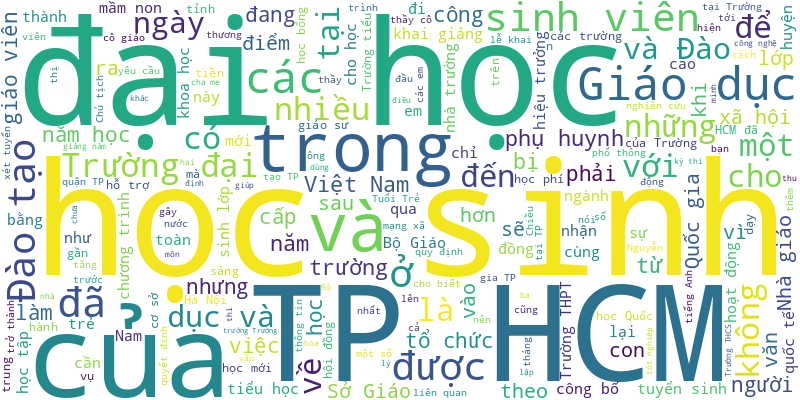
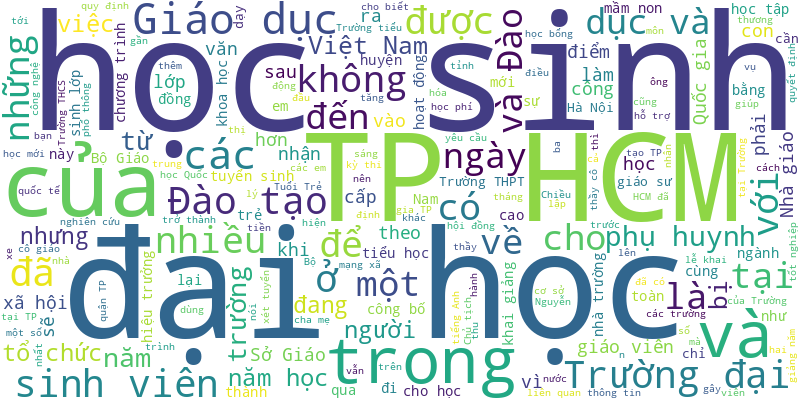
🍀 = 90%

diff --git a/README.md b/README.md
@@ -1,6 +1,12 @@
 # Tuoi Tre RSS 
 
 ## Giáo dục 
+- Ngoài việc giao tiếp thành thạo, chinh phục chứng chỉ uy tín với điểm số cao, học sinh Royal School còn ghi dấu ấn với khả năng sử dụng tiếng Anh thông minh, lấy tiếng Anh làm nền tảng định hình và phát triển các kỹ năng mới.
+- Trường đại học Giao thông vận tải TP.HCM đã "quay xe", cho miễn học học phần tiếng Anh với sinh viên đã có chứng chỉ IELTS.
+- Chậm nhất đầu quý 2-2025 sẽ thành lập phân hiệu Trường đại học Sư phạm kỹ thuật TP.HCM tại 'thủ phủ' điều Bình Phước.
+- Nhiều chuyên gia kiến nghị cần phải phối hợp các cơ quan khác nhau, thực hiện các biện pháp pháp lý, đặc biệt ứng dụng công nghệ blockchain, AI để xác định vi phạm sở hữu trí tuệ.
+- 150 trường đại học, các tổ chức giáo dục và kiểm định chất lượng của Việt Nam và các nước ASEAN họp hội nghị bàn về đảm bảo chất lượng giáo dục đại học.
+- Không mặc đồng phục, không đeo phù hiệu nhưng học sinh vẫn dễ dàng điểm danh nhờ phần mềm 'nhà làm' của trường.
 - UBND TP.HCM tiếp tục chính sách đặc thù hỗ trợ học phí năm học 2024-2025, với mức hỗ trợ từ 30.000 - 60.000 đồng/tháng theo từng khu vực.
 - Xét thấy hoàn cảnh đặc biệt khó khăn của Nguyễn Ngọc Như Uyên, hiệu trưởng Trường đại học Công nghiệp TP.HCM quyết định miễn toàn bộ học phí cho sinh viên là 'đôi mắt sáng' của cha mẹ mù này.
 - Kế hoạch ứng dụng bộ sách giáo khoa điện tử tích hợp công nghệ trí tuệ nhân tạo (AI) của Hàn Quốc đang gặp khó do vướng tranh cãi từ các giáo viên, phụ huynh...
@@ -995,14 +1001,79 @@
 - Ngày 29-8, ông Huỳnh Ngọc Nguyên - phó chủ tịch UBND huyện Vĩnh Thuận, tỉnh Kiên Giang - ký văn bản gửi Phòng Giáo dục và Đào tạo huyện về việc “khai giảng năm học mới và tổ chức giảng dạy, học tập của Trường THCS Thị Trấn”.
 - Dạy thêm, học thêm một khi trở thành nhu cầu thực tế thì mọi việc cấm đoán hay nới lỏng đều có thể mang lại những hệ quả tiêu cực.
 - TS Nguyễn Bá Cường - giám đốc Nhà xuất bản Đại học Sư phạm - đề xuất chính sách miễn học phí cho sinh viên ngành xuất bản, phát hành, thậm chí có phụ cấp như sinh viên sư phạm.
-- Đến tối 27-8, vẫn còn hơn 360 học sinh Trường Quốc tế Mỹ chưa chuyển trường trong số khoảng hơn 1.000 học sinh của trường này.
-- Lần đầu tiên, 400 sinh viên Trường đại học Văn Lang sẽ học thẩm định tin tức, nhiếp ảnh tại Tòa soạn báo Tuổi Trẻ.
-- Nhiều học sinh khối 10 Trường THPT chuyên Trần Đại Nghĩa đã "bất ngờ" với màn chào đón ấm áp, đầy trải nghiệm mà các học sinh khóa trên dành cho mình trong ngày đầu tựu trường.
-- Chương trình cử nhân ngành khoa học máy tính của Trường Đại học Quốc tế Sài Gòn (SIU) được Ủy ban kiểm định các chương trình máy tính (CAC) của ABET công nhận đạt kiểm định quốc tế.
-- Theo thống kê mới nhất, 20.000 trường mầm non ở nước này đã phải đóng cửa vì không có học sinh, khiến giới chức Trung Quốc đang “sốt vó” tìm kiếm giải pháp cấp bách khi lực lượng lao động giảm do tỉ lệ sinh giảm.
-- Nhiều ý kiến cho rằng học thêm là nhu cầu có thật của học sinh, nhưng không ít ý kiến nói khó kiểm soát tiêu cực khi ‘mở cửa’ dạy thêm.
 ![Edu](Edu.png)
 ## Thời Sự 
+- Bộ Quốc phòng đã có trả lời kiến nghị của cử tri TP.HCM về biện pháp xử lý nghiêm việc lợi dụng xăm hình để trốn nghĩa vụ quân sự.
+- UBND TP Nha Trang vừa báo cáo về việc không thực hiện cưỡng chế thu hồi đất dự án vi phạm tại đảo Hòn Rùa.
+- Việt Nam thuộc nhóm quốc gia có thu nhập bình quân đầu người thấp, nhưng tỉ lệ dân số từ 60 tuổi trở lên đã bắt đầu tăng nhanh.
+- Một số tin tức đáng chú ý: Sabeco rút khỏi một công ty sau khi mất hết vốn; Vận chuyển vàng trái phép qua biên giới có dấu hiệu gia tăng; Vinpearl sẽ huy động hơn 5.000 tỉ đồng trước niêm yết...
+- Hôm nay 12-12, không khí lạnh bao trùm khiến thời tiết Bắc Bộ chìm trong giá rét, nhiệt độ thấp. Trung Bộ trở vào Nam Bộ mưa to.
+- Phó thủ tướng Hồ Đức Phớc đã họp về sắp xếp, tinh gọn bộ máy của Bộ Tài chính, sắp xếp lại còn 35 đầu mối từ 56 đầu mối hiện hành.
+- Chiều 11-12, Phó thủ tướng Hồ Đức Phớc đã làm việc với hai bộ Thông tin và Truyền thông, Khoa học và Công nghệ về sắp xếp, tinh gọn bộ máy.
+- Tuyến đường sắt Lào Cai - Hà Nội - Hải Phòng dự kiến có tổng mức đầu tư là 11,6 tỉ USD. Trung Quốc khẳng định sẵn sàng cung cấp viện trợ để Việt Nam xây dựng báo cáo khả thi của dự án này.
+- UBND TP.HCM vừa có công văn gửi Bộ Giao thông vận tải nêu ý kiến về hồ sơ báo cáo nghiên cứu tiền khả thi dự án đường sắt Thủ Thiêm - Long Thành (đoạn qua TP.HCM).
+- Chủ tịch UBND TP.HCM Phan Văn Mãi đề nghị Bộ Tư pháp cùng các bộ, ngành liên quan hỗ trợ TP.HCM xây dựng các thể chế pháp lý trong việc xây dựng 355km đường sắt đô thị.
+- Việc bàn giao tài sản gói thầu CP3 từ nhà thầu Hitachi cho đơn vị vận hành không chỉ là thủ tục hành chính, mà còn là bước đệm quan trọng đưa tuyến metro số 1 đi vào hoạt động chính thức.
+- Chiều 11-12, Cục Thi hành án dân sự tỉnh Thanh Hóa tổ chức họp báo, thông tin về việc cưỡng chế thi hành án dân sự đối với Công ty TNHH Tây Đô, liên quan đến khu 'đất vàng' ở TP Thanh Hóa.
+- Lâm Đồng sẽ giảm 5 cơ quan chuyên môn trực thuộc UBND tỉnh; sáp nhập Đài phát thanh - truyền hình tỉnh Lâm Đồng và báo Lâm Đồng.
+- Chiều 11-12, Chủ tịch nước Lương Cường đã trao quyết định thăng quân hàm lên thượng tướng với Trung tướng Lê Quang Minh, phó chủ nhiệm Tổng cục Chính trị Quân đội nhân dân Việt Nam.
+- Chủ tịch Quốc hội Trần Thanh Mẫn đề nghị các cơ quan của Quốc hội, các bộ ngành diện sắp xếp cần phát huy trách nhiệm cao, thực hiện các nhiệm vụ được giao đến ngày cuối cùng hoạt động.
+- Kết luận của Thanh tra Chính phủ mới công bố cho thấy trong thời gian thanh tra, có tình trạng chậm trễ giải quyết hồ sơ cấp và gia hạn số đăng ký thuốc, trang thiết bị y tế... tại Bộ Y tế, là một trong những nguyên nhân làm thiếu thuốc, thiết bị.
+- Chiều 11-12, tiếp tục chương trình kỳ họp 20, HĐND TP Hà Nội đã tiến hành phiên chất vấn liên quan việc quản lý đô thị, xử lý ô nhiễm môi trường tại thủ đô.
+- Trung tâm Quản lý giao thông công cộng TP.HCM đã yêu cầu Liên hiệp Hợp tác xã đình chỉ tài xế, tiếp viên xe buýt ẩu đả với shipper ở quận 3, để phối hợp cơ quan chức năng làm rõ.
+- Bộ trưởng Bộ Tư pháp Nguyễn Hải Ninh cho biết qua rà soát sơ bộ, có tới 184 luật, khoảng 200 nghị định liên quan tổ chức bộ máy cần phải sửa đổi, bổ sung khi tinh gọn bộ máy.
+- Việc tổ chức xe trung chuyển đi và đến bến xe Miền Đông (TP Thủ Đức) đều thông qua ứng dụng, phần mềm.
+- Trong năm 2024, 17.303 gia đình ở quận Phú Nhuận đã trồng 54.107 cây xanh tại khuôn viên nhà, hưởng ứng mô hình 'Gia đình trồng cây' do UBND và Ủy ban MTTQ Việt Nam quận Phú Nhuận phát động.
+- Qua đợt khám sức khỏe người cao tuổi của TP.HCM năm 2024, có đến hơn 49.000 người cao tuổi lần đầu phát hiện mình mắc tăng huyết áp.
+- Dự kiến sau khi hợp nhất Bộ Nông nghiệp và Phát triển nông thôn và Bộ Tài Nguyên - Môi trường, sẽ giảm 25 đầu mối so với 55 đầu mối hiện có trong cơ cấu tổ chức của hai bộ.
+- Ủy ban Kiểm tra Trung ương báo cáo đề nghị cấp có thẩm quyền xem xét, thi hành kỷ luật một số đảng viên liên quan vi phạm, khuyết điểm tại dự án khu đô thị Đại Ninh và trong công tác cán bộ ở tỉnh Lâm Đồng.
+- Các chiêu trò lừa đảo giả mạo các thương hiệu thương mại, ngân hàng để đánh cắp thông tin đăng nhập và các dữ liệu nhạy cảm của người dùng.
+- Chiều 11-12, tiếp tục chương trình kỳ họp 20, HĐND TP Hà Nội đã tiến hành phiên chất vấn liên quan việc quản lý đô thị, xử lý ô nhiễm môi trường tại thủ đô. Giải pháp hồi sinh sông Tô Lịch được nhiều đại biểu quan tâm.
+- Trong lúc đi qua suối, rơ mooc xe công nông bị lật, một người đàn ông ở Phú Yên bị nước cuốn trôi.
+- Mặc dù đã nỗ lực hơn 10 năm qua, Việt Nam vẫn nằm trong nhóm quốc gia có tỉ lệ người hút thuốc cao nhất thế giới.
+- Đại biểu chất vấn tại sao cứ đến cuối năm lại đào đường gây ảnh hưởng cuộc sống người dân?
+- Lập biên bản xử phạt vi phạm nhưng người dân ở xa không có điều kiện nộp phạt, cán bộ quy tắc đô thị Đà Nẵng yêu cầu viết giấy đặt tiền bảo lãnh để nộp phạt, rồi nhận tiền qua tài khoản cá nhân.
+- Đèn cầu Hùng Vương, (Phú Yên) chỉ sáng nửa phía bắc còn phía nam lại tắt ngúm, khiến người tham gia giao thông lo xảy ra tai nạn.
+- Theo dự báo, tỉnh Thừa Thiên Huế sẽ có mưa lớn ở nhiều nơi từ nay đến hết ngày 15-12.
+- Pháp lệnh Chi phí tố tụng mới được thông qua quy định từ ngày 1-7-2025, phụ cấp xét xử cho hội thẩm sẽ tăng lên 900.000 đồng/người/ngày.
+- Sau gần một năm làm nhiệm vụ phó giám đốc Sở Xây dựng tỉnh Long An, ông Trương Tấn Sơn được điều động giữ chức phó bí thư Huyện ủy Mộc Hóa, Long An.
+- Cựu chủ tịch, phó chủ tịch tỉnh An Giang bị cáo buộc nhận tiền 'cảm ơn' của doanh nghiệp liên quan đường dây khai thác cát lậu lớn nhất địa phương này.
+- Tại buổi làm việc nhằm nâng cao hiệu quả phối hợp đối với công tác tư pháp và thi hành án dân sự trên địa bàn TP, Thứ trưởng Bộ Tư pháp Mai Lương Khôi đánh giá vụ án Vạn Thịnh Phát là vụ việc lớn nhất trong lịch sử thi hành án.
+- Ngày 11-12, lực lượng Đội cảnh sát giao thông - trật tự Công an TP Thủ Đức đã lập biên bản tài xế xe buýt số 88 hành vi vượt đèn đỏ. Đồng thời tài xế bị đình chỉ công việc 2 năm.
+- Vì sao cảng hành khách Rạch Giá thi công suốt 6 năm chưa xong mà phải liên tục điều chỉnh thời gian thực hiện liên tục?
+- Bên cạnh niềm vui khi cầu Đại Ngãi 1 chính thức khởi công, nhiều người lo cầu xây xong thì quốc lộ 60 sẽ bị quá tải.
+- Bộ Nông nghiệp và Phát triển nông thôn dự kiến sẽ sắp xếp, hợp nhất nhiều đơn vị và dự kiến hoàn thành dự thảo bộ mới xong trước 15-12.
+- Ông Bùi Thắng, trưởng Ban Tuyên giáo Tỉnh ủy, được chuẩn y làm phó bí thư Tỉnh ủy Lâm Đồng.
+- Sáng 11-12, Thủ tướng Phạm Minh Chính dự và chủ trì Hội nghị toàn quốc về giáo dục quyền con người do Học viện Chính trị quốc gia Hồ Chí Minh tổ chức.
+- Thấy con vật chưa rõ tên xuất hiện trước nhà trên đường Mai Chí Thọ (TP Thủ Đức, TP.HCM), người dân liền bắt lại và tìm hiểu thì biết đây là động vật quý hiếm tên rái cá vuốt bé.
+- Bệnh viện Ung bướu Cần Thơ xây 8 năm không xong, nay vừa được đề xuất lùi thời gian hoàn thành đến năm 2027.
+- Hội đồng đề nghị đẩy nhanh các thủ tục pháp lý để đưa metro số 1 vào vận hành, khai thác theo kế hoạch.
+- 100% hồ sơ thủ tục hành chính của bộ, ngành, địa phương phải được tiếp nhận, giải quyết trên hệ thống thông tin giải quyết thủ tục hành chính cấp bộ, cấp tỉnh.
+- HĐND TP.HCM sẽ tiếp tục giám sát các vấn đề quan trọng, đồng thời tổ chức các buổi đối thoại giữa cử tri và chính quyền.
+- Tổ công tác cán bộ pháp y Công an tỉnh Kiên Giang trên đường đi công tác đã kịp thời cứu người bị nạn thoát khỏi nguy kịch trong đêm tối và cấp cứu kịp thời.
+- Sáng 11-12, cơ quan chức năng quận 3, TP.HCM đang xác minh vụ tài xế, nhân viên xe buýt ẩu đả với tài xế giao hàng trên đường Võ Văn Tần.
+- Bộ Công an vừa ban hành mẫu biển số xe ô tô và mô tô áp dụng từ 1-1-2025, đồng thời quy định cụ thể về cấu tạo, quy cách, yêu cầu kỹ thuật, thử nghiệm, lưu mẫu, bảo quản, sản xuất biển số xe.
+- Tổng Bí thư nhấn mạnh tỉnh huy động mọi nguồn lực, các thế mạnh đặc trưng để bứt phá, góp phần tích cực vào sự phát triển chung của vùng Đồng bằng sông Cửu Long và đất nước.
+- TP.HCM hiện là địa phương có chỉ số già hóa dân số dẫn đầu cả nước. Hiện thành phố có hơn 1,3 triệu người trên 60 tuổi, chiếm 12,05% dân số.
+- Sáng 11-12, tại Hà Nội, Chủ tịch nước Lương Cường đã tới thăm và làm việc với Bộ Công an.
+- HĐND tỉnh Ninh Thuận khóa XI đã ra nghị quyết thông qua đồ án quy hoạch chung xây dựng khu du lịch quốc gia Ninh Chữ đến năm 2045, với tổng diện tích khoảng 10.200ha đất liền và 2.000ha trên biển.
+- Đại biểu hỏi giám đốc Sở Văn hóa, Thể thao và Du lịch TP Cần Thơ sau bốn năm, kế hoạch xây dựng người Cần Thơ trí tuệ, năng động, nhân ái, hào hiệp, thanh lịch đã đến đâu? Làm sao để đạt được người có những tiêu chí này?
+- Tổng thư ký Quốc hội Lê Quang Tùng nêu rõ công tác nhân sự tại kỳ họp thứ 8 tiến hành thận trọng, đúng định hướng của Đảng, quy trình, thủ tục chặt chẽ.
+- Với các cơ chế, chính sách đặc biệt được đề xuất, dự án vành đai 4 TP.HCM còn kỳ vọng sẽ triển khai nhanh hơn cả đường vành đai 3.
+- Đó là ý kiến trao đổi của Chủ tịch UBND TP.HCM Phan Văn Mãi về việc Thảo cầm viên Sài Gòn có nguy cơ ngừng hoạt động vì nợ tiền sử dụng đất.
+- Ý kiến lo lắng về tội phạm công nghệ cao, lừa đảo qua mạng, lấy danh nghĩa cán bộ gây khó khăn cho doanh nghiệp nhằm trục lợi… được nêu ra tại kỳ họp HĐND Đà Nẵng.
+- Sáng 11-12, tiếp tục chương trình kỳ họp thứ 20, các đại biểu HĐND TP Hà Nội chất vấn và trả lời chất vấn một số vấn đề xã hội quan tâm. Vấn đề liên quan tiến độ dự án đường vành đai 1 được các đại biểu quan tâm, đặt câu hỏi.
+- Bên cạnh Giải Báo chí TP.HCM hằng năm, TP.HCM cũng sẽ khen thưởng các tác phẩm báo chí hay, xuất sắc viết về TP định kỳ hằng quý.
+- TP.HCM miễn phí 1 tháng vé metro nhằm tri ân người dân đã ủng hộ dự án, bàn giao mặt bằng và chia sẻ khó khăn trong quá trình thi công.
+- Tùy đất cho thuê là đất nông nghiệp, phi nông nghiệp, thương mại, dịch vụ mà tỉ lệ phần trăm tính đơn giá thuê đất từ 0,25 - 1,5%.
+- Một số tuyến đường ở Nha Trang xảy ra sạt lở do mưa lớn. Hiện lực lượng chức năng đang kiểm tra, xử lý và cảnh báo cho người dân.
+- Khu vực hồ nuôi cá chim của một hộ dân ở Hà Tĩnh những ngày gần đây xuất hiện tình trạng cá chết hàng loạt, nổi trắng mặt hồ.
+- Sáng 11-12, tại kỳ họp thứ 20, HĐND TP.HCM khóa X đã thông qua nghị quyết về đặt tên đường, công trình công cộng và điều chỉnh lý trình trên địa bàn TP.HCM.
+- Vụ tai nạn xảy ra lúc rạng sáng 11-12 trên cao tốc Vĩnh Hảo - Phan Thiết, tỉnh Bình Thuận giữa xe tải và xe đầu kéo khiến 1 tài xế chết tại chỗ.
+- Ông Dương Minh Dũng, 54 tuổi, bí thư Huyện ủy Long Thành, được bầu làm phó chủ tịch UBND tỉnh Đồng Nai.
+- Sáng 11-12, Ủy ban Thường vụ Quốc hội quyết định bổ sung 4 dự luật, 1 dự thảo nghị quyết vào chương trình xây dựng luật, pháp lệnh năm 2025, trong đó có sửa Luật Báo chí.
+- Hội đồng nhân dân tỉnh Quảng Bình đã bầu ông Trần Phong làm chủ tịch UBND tỉnh thay ông Trần Thắng vừa được điều động làm phó bí thư Đảng ủy Khối Doanh nghiệp Trung ương.
+- Sáng 11-12, hộ dân cuối cùng trong 112 hộ bị ảnh hưởng khi xây dựng tuyến metro số 2 (Bến Thành - Tham Lương) đã tự nguyện tháo dỡ nhà, giao mặt bằng.
 - UBND TP.HCM tiếp tục chính sách đặc thù hỗ trợ học phí năm học 2024-2025, với mức hỗ trợ từ 30.000 - 60.000 đồng/tháng theo từng khu vực.
 - Phòng Cảnh sát giao thông Công an tỉnh Đắk Nông đã xử lý nhiều tài xế vì vừa lái xe vừa 'buôn dưa lê' trên điện thoại. Đáng chú ý, nhiều vụ phát hiện từ việc trích xuất camera giám sát tài xế được lắp đặt trên xe.
 - Quảng Ngãi hiện có 110 dự án chậm tiến độ. Trong đó có 14 dự án trong Khu kinh tế Dung Quất chậm tiến độ rất nhức nhối. Năm 2025 Quảng Ngãi sẽ rà soát quỹ đất khu kinh tế, phân loại dự án chậm và xử lý dứt điểm.
@@ -1932,79 +2003,9 @@
 - Cơ quan chức năng cho biết đã có kế hoạch làm hầm chui ở giao lộ này để khơi thông cửa ngõ sân bay Tân Sơn Nhất.
 - Là tỉnh có diện tích nhỏ nhất cả nước song Bắc Ninh đã không còn hộ nghèo, ưu tiên dành nguồn lực xóa nhà tạm, nhà dột nát và hỗ trợ các tỉnh khó khăn như Điện Biên, Lai Châu.
 - Vụ tai nạn giữa 2 chiếc xe tải trên cao tốc Phan Thiết - Dầu Giây, đoạn qua huyện Hàm Tân, Bình Thuận khiến 3 người bị thương.
-- Ngày 23-11, Chủ tịch UBND TP.HCM Phan Văn Mãi đã ký tờ trình gửi Thủ tướng và Bộ Kế hoạch và Đầu tư về báo cáo nghiên cứu tiền khả thi dự án đầu tư xây dựng đường vành đai 4 TP.HCM.
-- Trung tướng, Anh hùng Lực lượng vũ trang nhân dân Khuất Duy Tiến, nguyên hiệu trưởng Trường Sĩ quan Lục quân 1 đã từ trần chiều 23-11, hưởng thọ 94 tuổi.
-- Tối 23-11, tại quảng trường Hồ Chí Minh, TP Vinh, tỉnh Nghệ An diễn ra lễ kỷ niệm 10 năm dân ca ví, giặm Nghệ Tĩnh được UNESCO vinh danh là Di sản văn hóa phi vật thể đại diện của nhân loại.
-- Tuần này Bắc Bộ đón không khí lạnh nên nhiệt độ giảm mạnh. Trung Bộ có nơi mưa to, Nam Bộ ngày nắng gián đoạn, chiều tối mưa rào.
-- Trong khi sân bay Long Thành và các đơn vị cung cấp hậu cần đang tăng tốc về đích, các tuyến cao tốc kết nối với sân bay lại ì ạch.
-- Một số tin tức đáng chú ý: PGBank chuyển trụ sở chính sang Thành Công Tower, tiết lộ số tiền thuê; Một sếp của Dược phẩm Cửu Long xin nghỉ vì 'không thể bố trí thời gian'; Những ngành nào dễ tìm việc ở Hà Nội cuối năm?
-- Dự báo từ khuya nay, khối không khí lạnh mạnh sẽ ảnh hưởng Bắc Bộ. Thời tiết Trung Bộ mưa to, Nam Bộ ngày nắng gián đoạn.
-- Vụ tai nạn giao thông nghiêm trọng xảy ra lúc chiều 23-11 trên đường Nguyễn Thông, phường Phú Hài, Phan Thiết, tỉnh Bình Thuận.
-- Trong chưa đầy 1 tháng (từ 19-10 đến 8-11), tại TP Tuy Hòa xảy ra 2 vụ tai nạn giao thông đường sắt liên quan đến khu vực lối đi tự mở làm 1 người chết.
-- Người mẹ 19 tuổi ném con 3 tháng tuổi tuổi xuống mương nước khiến cháu bé tử vong vì mâu thuẫn với chồng và gia đình chồng.
-- Đoàn các y bác sĩ đã khám cận lâm sàng và phát thuốc miễn phí cho hơn 450 người dân là gia đình chính sách, người có hoàn cảnh khó khăn.
-- Ở dự án chống sạt lở bán đảo Thanh Đa, Ban Giao thông thấy rằng việc vi phạm tiến độ của nhà thầu Anh Vinh là kéo dài, lặp đi lặp lại.
-- Theo thống kê của Sở Y tế TP.HCM, từ ngày 9-9 số ca mắc sốt xuất huyết có xu hướng tăng liên tục hằng tuần, ghi nhận một trường hợp tử vong.
-- Vụ tai nạn giao thông liên hoàn giữa 3 ô tô đã làm quốc lộ 5 ùn tắc cục bộ.
-- Dự báo từ đêm 26-11, ở khu vực Bắc Bộ và Bắc Trung Bộ trời chuyển rét, vùng núi rét đậm với nhiệt độ phổ biến 16-18 độ C, vùng núi cao dưới 10 độ C.
-- Chiều tối 23-11, chủ tịch UBND huyện An Lão (Bình Định) cho biết trên địa bàn huyện vừa xảy ra vụ sạt lở đất khiến giao thông bị chia cắt.
-- Căn nhà bốc cháy trên phố Trúc Bạch (Hà Nội). Cảnh sát đã đưa 7 người mắc kẹt trên tầng cao ra ngoài.
-- Cơ quan điều tra Viện Kiểm sát nhân dân tối cao đã bắt bị can Lưu Quang Trung - cựu trung úy, điều tra viên Cơ quan cảnh sát điều tra Công an huyện Long Thành, tỉnh Đồng Nai - về tội dùng nhục hình.
-- Bắt đầu 8h sáng mai, thủy điện Sông Tranh 2 sẽ vận hành xả nước điều tiết, với tổng lưu lượng dự kiến 200-1.500m³/s.
-- Triển lãm diễn ra trong hai ngày 22 và 23-11, tại TP Phú Quốc, tỉnh Kiên Giang.
-- Lễ trao Huân chương Bảo vệ Tổ quốc hạng ba cho hai đại tá phi công Nguyễn Văn Sơn và thượng tá Nguyễn Hồng Quân đã diễn ra vào chiều nay 23-11.
-- Theo dự án, thời gian thực hiện sẽ là 5 năm và năm 2028 hoàn thiện công trình, nghiệm thu đưa vào sử dụng.
-- Các đơn vị tư vấn trong nước đã gửi kiến nghị đến chính quyền tỉnh Kiên Giang đề nghị xem lại phương án 'Mái tóc huyền thoại' có làm cầu vượt biển cao 78m không?
-- Công an tỉnh Đắk Lắk chỉ ra rằng có thể bị lãng phí hơn 76 tỉ đồng vận chuyển đá làm dự án cao tốc Khánh Hòa - Buôn Ma Thuột vì 'bỏ mỏ gần, lấy mỏ xa'.
-- Luật Di sản văn hóa sửa đổi vừa được Quốc hội thông qua quy định cụ thể về quỹ bảo tồn di sản văn hóa và thanh tra chuyên ngành di sản văn hóa.
-- Cục Đường bộ cho biết bằng lái phải được in xong mới có thể cập nhật, tự động liên thông với VneID.
-- Con hẻm trên đường Thạnh Lộc 15, quận 12 (TP.HCM) thường xuyên ngập nước đen kịt, bốc mùi hôi thối.
-- Quốc hội giao Chính phủ có giải pháp căn cơ đưa giá bất động sản về đúng giá trị nội tại, ngăn chặn thao túng, tạo sốt giá.
-- Một tài khoản Facebook vừa đăng tải clip người đàn ông tự cầm điện thoại selfie ở Hội An. Trong clip người này nói "nghe được thông tin mỗi suất đạp xích lô, chèo ghe bơi có giá 1,6 - 1,8 tỉ đồng".
-- Quốc hội giao Chính phủ chú trọng kiểm tra, thanh tra về chất lượng nhà ở xã hội, việc xét duyệt đối tượng thụ hưởng chính sách nhà ở xã hội.
-- Theo thông tư mới đây của Bộ Quốc phòng, từ 2025, sĩ quan, quân nhân chuyên nghiệp được đánh giá, xếp loại hoàn thành xuất sắc nhiệm vụ sẽ được hưởng mức thưởng bằng 8 lần mức lương cơ sở.
-- Nhiều hộ dân, xí nghiệp tại thị xã Đông Hòa (Phú Yên) bị tốc mái, hư hỏng vật dụng sau khi hai đợt lốc xoáy quét qua. Hiện cơ quan chức năng đang thống kê thiệt hại.
-- Sở Y tế TP Cần Thơ vừa có kết luận các nội dung tố cáo ban giám đốc Bệnh viện Nhi đồng TP Cần Thơ, liên quan đến thực hiện các gói thầu mua sắm, sửa chữa, miễn giảm tiền thuê mặt bằng trong bệnh viện và quy trình tuyển dụng…
-- 220 học viên là cán bộ thuộc diện Ban Thường vụ Tỉnh ủy Quảng Ngãi quản lý và tham gia quản lý được bồi dưỡng kiến thức mới.
-- Cơ quan thi hành án dân sự đang đau đầu khi thụ lý thi hành các tàu cá nhưng có tàu đã đắm, tàu thì chìm một phần.
-- Thủ tướng chia sẻ hoạt động doanh nghiệp nhà nước phải theo quy luật thị trường, giá trị, cung cầu và cạnh tranh, không thể can thiệp bằng các biện pháp hành chính.
-- Bí thư Tỉnh ủy Quảng Trị Lê Quang Tùng yêu cầu UBND tỉnh và các sở ngành đẩy nhanh các thủ tục để sớm phê duyệt dự án đầu tư 8km quốc lộ 15D, khởi công và hoàn thành ngay trong 2025.
-- Tàu cá đang di chuyển trên vùng biển thị xã Đức Phổ, Quảng Ngãi thì bị sóng lớn đánh chìm. Vụ chìm tàu cá khiến một ngư dân chết, một ngư dân mất tích.
-- Các bác sĩ ở Phú Quốc vừa kịp thời cứu sống một du khách Hàn Quốc (84 tuổi) bị xuất huyết não nặng do té. Du khách trên cũng được địa phương và bác sĩ bệnh viện hỗ trợ đưa về nước an toàn.
-- Theo thông tư mới của Bộ Công an, khi lái xe không chấp hành hiệu lệnh dừng xe, bỏ chạy, xúi giục lôi kéo người khác cản trở người thi hành công vụ, cảnh sát giao thông có quyền giải thích, ngăn chặn người vi phạm đó.
-- Xe tải lấn đường gây tai nạn liên hoàn trên quốc lộ 14 khiến ba người bị thương nặng, đang được cấp cứu.
-- Hai nạn nhân trong vụ xe chở rác lao xuống cầu treo Bình Thành (Thừa Thiên Huế) đã được tìm thấy cách hiện trường khoảng 10km.
-- Sáng 23-11, chương trình cộng đồng "Phở yêu thương - Nước sạch học đường" đã đến với học sinh Trường tiểu học Cam Lộc 1 (TP Cam Ranh, tỉnh Khánh Hòa).
-- Nhìn con trai an toàn trở về sau những ngày bị bán ra nước ngoài, bị cưỡng bức lao động, người mẹ đã không khỏi nghẹn ngào, xúc động viết tâm thư gửi lực lượng công an đã góp phần giải cứu con mình.
-- Cửa hàng xăng dầu ở Vũng Tàu có 5 trụ bơm sai lệch kết quả đo thông báo tạm ngưng bán hàng. Nhiều khách hàng đặt câu hỏi mình đã bị cửa hàng ăn gian từ khi nào?
-- Con gái bị xử phạt 4,2 triệu đồng vì vi phạm luật giao thông. Bố nghe tin thì lên mạng xã hội đăng bài xúc phạm công an nên bị phạt thêm 7,5 triệu đồng.
-- Hai cô gái chuyên trang điểm cho cô dâu bị một gia đình chú rể ở Tiền Giang giữ lại để lục vali, đồ đạc và yêu cầu cởi đồ để lục soát chỉ vì bị mất 20 triệu đồng, khiến nhiều người bức xúc.
-- Nghi phạm Ma Vũ Duy bị công an bắt giữ với cáo buộc sử dụng ma túy rồi trộm cướp 2 ô tô, tông vào người đuổi theo ngăn chặn và dùng xẻng đánh chết cụ ông 69 tuổi ở Hà Nội.
-- Chuyện thiếu phôi bằng lái xe lan ra nhiều tỉnh thành dẫn đến nhiều người dân đã thi đậu vẫn chưa được cấp bằng.
-- Tại dự Luật Công nghiệp công nghệ số đã bổ sung nội dung về tài sản số, trí tuệ nhân tạo (Al) và quy định chương riêng liên quan công nghiệp bán dẫn.
-- Dự kiến cuối tháng 11 này, dự thảo sửa đổi bổ sung một số điều Luật Bảo hiểm y tế (BHYT) được Quốc hội thông qua, kỳ vọng sẽ đem lại nhiều lợi ích cho người tham gia BHYT mà người dân đang rất quan tâm.
-- Quảng Ngãi yêu cầu cả hệ thống chính trị vào cuộc, giải quyết dứt điểm vướng mắc, hỗ trợ tối đa thủ tục hành chính, mỏ vật liệu để nhà thầu đẩy nhanh tiến độ cao tốc Quảng Ngãi - Hoài Nhơn.
-- Vụ tai nạn giữa sà lan và ghe chài lưới trên sông Đồng Nai khiến hai vợ chồng rơi xuống sông. Người vợ được cứu kịp thời, còn người chồng mất tích, được tìm thấy đã tử vong sau đó.
-- Một số tin tức đáng chú ý: Quốc hội họp bàn về công nghệ số, phát triển trí tuệ nhân tạo; Người Việt đầu tiên giành giải TechWomen 100; TP.HCM tiêm vắc xin sởi cho trẻ 6 - 9 tháng tuổi...
-- Hôm nay 23-11, thời tiết Bắc Bộ lạnh đến rét, vùng núi nhiệt độ xuống dưới 15 độ C. Trung Bộ mưa to, còn Nam Bộ ngày nắng.
-- Tại lễ kỷ niệm 120 năm thành lập tỉnh Đắk Lắk, Phó thủ tướng thường trực Chính phủ Nguyễn Hòa Bình cho rằng đoàn kết là "chìa khóa" để địa phương trở thành điểm đến đáng sống.
-- Chuyển đổi số xanh được kỳ vọng sẽ nâng cao năng lực, tạo ra lợi thế cạnh tranh lớn hơn cho thành phố cảng.
-- 'Đài truyền hình Việt Nam lấy làm tiếc về sự việc nghiêm trọng này và sẽ chủ động phối hợp với các cơ quan chức năng cùng gia đình tài xế xe tải để giải quyết vụ việc theo đúng tinh thần thượng tôn pháp luật', VTV thông tin.
-- UBND TP.HCM vừa công bố danh mục 31 vị trí sạt lở bờ sông, kênh, rạch nguy hiểm và đặc biệt nguy hiểm năm 2024.
-- Hiện nay khu vực dân cư phường Dương Đông (TP Phú Quốc, Kiên Giang) chưa có hệ thống xử lý nước thải tập trung. Địa phương sẽ làm gì để xử lý vấn đề trên, góp phần hạn chế ô nhiễm môi trường, phát triển du lịch biển đảo?
-- Phó chủ tịch thường trực UBND tỉnh Quảng Trị Hà Sỹ Đồng vừa được Thủ tướng giao quyền chủ tịch UBND tỉnh nhiệm kỳ 2021-2026.
-- Bộ Giao thông vận tải vừa thành lập Hội đồng thẩm định quy hoạch tuyến đường sắt Lào Cai - Hà Nội - Hải Phòng - Quảng Ninh dài hơn 447km, có chi phí đầu tư ước tính hơn 183.800 tỉ đồng.
-- Bộ Chính trị điều động, phân công, bổ nhiệm Bí thư Tỉnh ủy Thái Bình Ngô Đông Hải giữ chức phó trưởng Ban Tuyên giáo Trung ương.
-- Sau nhiều lần chậm tiến độ, dự án hệ thống xử lý nước thải Yên Xá (Hà Nội) sẽ được vận hành thử vào ngày 1-12 tới.
-- Ngày 22-11, Đảng ủy Văn phòng Trung ương Đảng tổ chức lễ trao Huy hiệu 50 năm tuổi Đảng tặng nguyên Ủy viên Bộ Chính trị, nguyên Thường trực Ban Bí thư khóa XII Đinh Thế Huynh.
-- Thiếu phôi, sao không cấp bằng lái số để giải quyết tình trạng hàng chục ngàn người dân ở nhiều tỉnh thành bị treo bằng lái dù thi đậu?
-- Xeng và Sisavanh Yongyaerlor vận chuyển thuê 70kg ma túy từ Lào vào Việt Nam để lấy 28.000 USD tiền công, thì bị lực lượng chức năng phát hiện, bắt giữ.
-- Ông Trần Văn Mẫn - giám đốc Sở Xây dựng Quảng Ngãi - được điều động, bổ nhiệm làm trưởng Ban quản lý Khu kinh tế Dung Quất và các khu công nghiệp tỉnh Quảng Ngãi.
-- Theo Tổ chức Y tế thế giới, đã có gần 270.000 ca tử vong do đề kháng thuốc kháng sinh tại Việt Nam trong khoảng thời gian từ năm 2020 đến năm 2023.
-- Khoản thuế 2% hoạt động giáo dục sẽ được tính vào học phí, nghĩa là gánh nặng cho sinh viên và phụ huynh.
-- Đại diện Hiệp hội Bất động sản TP.HCM và các doanh nghiệp đề xuất quận 1 vận dụng các quy định để thu hồi đất, tăng số căn hộ, tăng chỉ tiêu dân số, hỗ trợ doanh nghiệp thủ tục điều chỉnh quy hoạch của dự án xây dựng mới khu vực chợ Gà, chợ Gạo.
 ![New](News.png)
 ## Nhịp sống số 
+- Telegram có hệ thống mã hóa đầu cuối mạnh mẽ, giúp đảm bảo tính riêng tư cho các cuộc trò chuyện.
 - Máy tính lượng tử sẽ được tích hợp vào nền tảng đám mây điện toán lượng tử "Tianyan" để người dùng trên toàn thế giới có thể truy cập được.
 - Tại lễ trao giải Vietnam iContent 2024 diễn ra vào tối 30/11, FPT Play được vinh danh là ‘‘Nền tảng giải trí Việt của năm”.
 - Dự luật vừa thông qua quy định trẻ em dưới 16 tuổi không được phép đăng ký mở tài khoản Facebook, Snapchat, TikTok, Instagram, Reddit và X.
@@ -3003,5 +3004,4 @@
 - TTO - Tập đoàn Công nghiệp - Viễn thông Quân đội (Viettel) sẽ chính thức áp dụng cước roaming mới tại Myanmar tương tự như cước sử dụng ở Việt Nam vào đúng thời điểm khai trương mạng di động Mytel vào ngày 9-6-2018
 - TTO - Hãng Canon vừa thông báo chính thức dừng bán loại máy ảnh chụp phim cuối cùng EOS-1v của hãng này.
 - TTO - Tỉ phú đầu tư Warren Buffett đầu năm nay từng đề xuất đầu tư 3 tỉ USD vào công ty Uber, song việc đàm phán không thành do những bất đồng về điều khoản và quy mô thỏa thuận.
-- TTO - Ford vừa tung ra chiến dịch Share The Road nhằm mục đích cải thiện an toàn đường bộ bằng sự hỗ trợ của các thiết bị VR dành riêng cho người đi xe đạp trên đường.
 ![life](Life.png)
